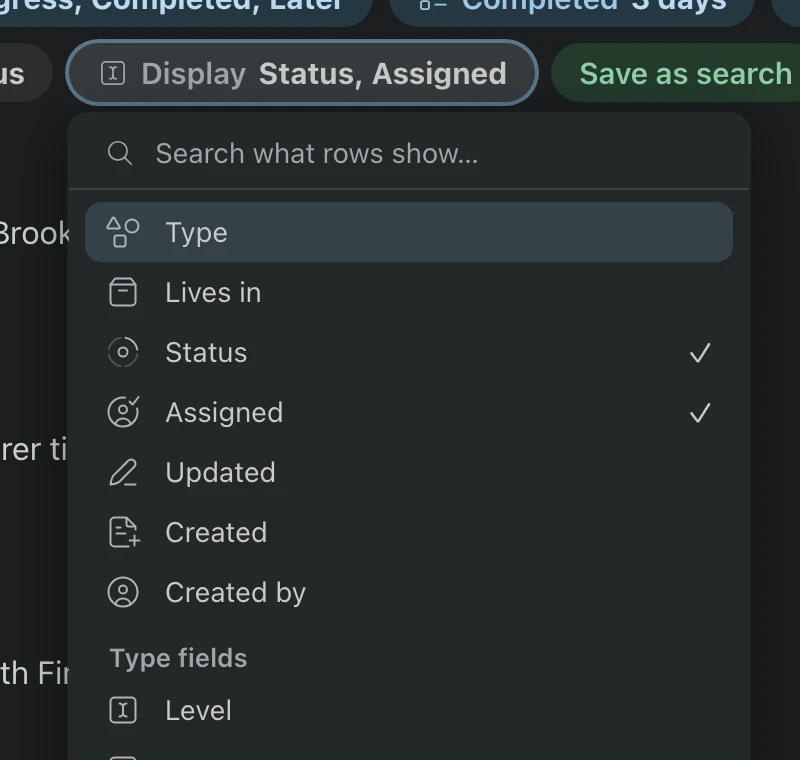
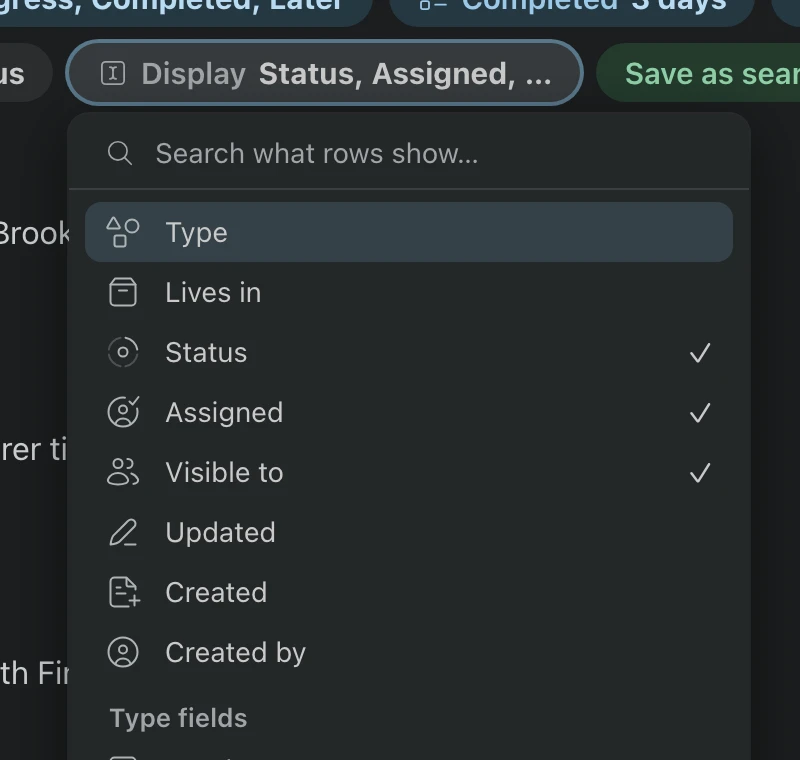
Display: Visible to is its own fact, no longer hidden with Assigned

diff --git a/scripts/renderer-behavior-check.js b/scripts/renderer-behavior-check.js
@@ -137,8 +137,6 @@ const withShims = (src) => {
   // a row's facts share their icon and click helpers with who can see it (renderer/tasks.js peopleEl), which the
   // subtext leads with; a harness with no member list sees nobody's bubbles
   if (/\b(clickable|iconEl|audienceIcon|peopleEl)\(/.test(src) && !/function clickable\(/.test(src)) src = sourceBetween('function clickable(', '// node: the row') + '\nglobalThis.loadMembers ??= () => {}; globalThis.memberName ??= (id) => id; globalThis.members ??= null; globalThis.sensitiveHidden ??= () => false;\n' + src;
-  // the Timeline hides who can see a row (renderer/tasks.js audienceShown): a harness that is not about it is not on it
-  if (/\baudienceShown\(/.test(src)) src = (/let zoom\b/.test(src) ? '' : 'globalThis.zoom ??= null;\n') + (/const TIMELINE_PAGE =/.test(src) ? '' : "globalThis.TIMELINE_PAGE ??= 'orbital:timeline';\n") + src;
   // a type's page (renderer/nodes.js): a harness that is not about one is never on one
   if (/\bfieldType\(/.test(src) && !/const fieldType =/.test(src)) src = 'globalThis.fieldType ??= () => (onTypePage() ? zoom.docId : null);\n' + src; // nor on a page narrowed to one type
   // the fields a mixed list's rows carry (renderer/views.js pageFieldDefs): a harness that is not about them lists none
@@ -161,7 +159,7 @@ const withShims = (src) => {
   if (/\b(displayOn|displayKeys|subtextOf)\b/.test(src) && !/const displayKeys =/.test(src) && !/function subtextOf\(/.test(src)) {
     src = functionSource('agoText') + '\n' + functionSource('subtextOf') + '\n' + src;
     // pinnedOn needs the grouping (views.js) and the date pins (state.js); no row here is in a Pinned section
-    src = "globalThis.displayKeys ??= () => ['status', 'assigned', 'updated']; globalThis.displayOn ??= (id) => globalThis.displayKeys().includes(id); globalThis.pinnedOn ??= () => ''; globalThis.me ??= () => (globalThis.members || []).find((m) => m.me);\n" + src;
+    src = "globalThis.displayKeys ??= () => ['status', 'assigned', 'visibility', 'updated']; globalThis.displayOn ??= (id) => globalThis.displayKeys().includes(id); globalThis.pinnedOn ??= () => ''; globalThis.me ??= () => (globalThis.members || []).find((m) => m.me);\n" + src;
   }
   // The watch-state cache lives in state.js, which most slices do not take. A slice that only clears it — a sharing
   // change can flip whether a node is watched — should not fail for want of the map itself.
@@ -4165,9 +4163,10 @@ function runRowAudienceCheck() {
     const pillKey = () => 'library', onTypePage = () => false, fieldType = () => null, relatedBy = new Map(), isFieldKey = () => false;
     ${sourceBetween('const DISPLAY_DEFAULT =', '\n// On a type')}
     ${sourceBetween('const displayKeys =', 'const displayOn =')}
-    (page) => { zoom = page ? { docId: page, nodeId: null } : null; return displayKeys().join(); };
+    (page, chosen) => { zoom = page ? { docId: page, nodeId: null } : null; if (chosen) displayPref.library = chosen; return displayKeys().join(); };
   `);
-  assert.equal(display(null), 'updated,creator', 'a list view shows what its Display chose');
+  assert.equal(display(null), 'updated,creator,visibility', 'a list view shows what its Display chose, and Visible to where it was chosen before Visible to was its own');
+  assert.equal(display(null, ['updated', 'novisibility']), 'updated,novisibility', 'Visible to switched off stays off');
   assert.equal(display('orbital:timeline'), 'status,assigned', 'the Timeline shows each task\'s box and assignee, not the last view\'s Updated');
   const api = vm.runInNewContext(`
     const items = new Map(), open = new Map(), pending = new Map();
@@ -4217,7 +4216,7 @@ function runRowAudienceCheck() {
     ${functionSource('nodeEl')}
     // which facts a row shows. withShims defaults this; here the harness drives it, so the sub-line can be checked
     // both with Lives in on and with it off. Assigned through globalThis because the shim's displayOn reads it there.
-    let displayNow = ['status', 'assigned', 'updated'];
+    let displayNow = ['status', 'assigned', 'visibility', 'updated'];
     globalThis.displayKeys = () => displayNow;
     ({
       row: (node, meta) => {
@@ -4236,7 +4235,7 @@ function runRowAudienceCheck() {
       },
       onScreen: () => { watching(observed.map((target) => ({ isIntersecting: true, target }))); return [...fetched]; },
       display: (keys) => { displayNow = keys; },
-      timeline: (on) => { globalThis.zoom = on ? { docId: TIMELINE_PAGE, nodeId: null } : null; },
+      timeline: (on) => { globalThis.zoom = on ? { docId: TIMELINE_PAGE, nodeId: null } : null; displayNow = on ? ['status', 'assigned'] : ['status', 'assigned', 'visibility', 'updated']; }, // the Timeline's own Display (displayKeys)
     });
   `, { structuredClone });
   const doc = { id: 'tana:text:doc1', kind: 'document', text: 'Charter', icon: 'doc', hasChildren: true, editable: true };
@@ -4263,6 +4262,13 @@ function runRowAudienceCheck() {
   const onTimeline = row(doc, { assignees: [], audience: 'people', people: ['tana:user-profile:me', 'tana:user-profile:sam'] });
   assert.deepEqual([onTimeline.people, onTimeline.icons, row(doc, spaceMeta).icons], [null, [], []], 'the Timeline shows nothing of who can see a row: no faces, no audience icon');
   api.timeline(false);
+  // Visible to is its own Display fact: Assigned off keeps it, and it off keeps the assignee
+  api.display(['status', 'visibility', 'updated']);
+  assert.deepEqual([row(doc, spaceMeta).icons, row(doc, { assignees: [], audience: 'people', people: ['tana:user-profile:me', 'tana:user-profile:sam'] }).people[0]], [['Visible to members of Studio LT'], 'Visible to selected people'], 'Assigned off leaves who can see a row');
+  api.display(['status', 'assigned', 'updated']);
+  const unseen = row(task, { assignees: ['tana:user-profile:sam'], audience: 'people', people: ['tana:user-profile:me', 'tana:user-profile:sam'] });
+  assert.deepEqual([unseen.people, unseen.icons], [null, []], 'Visible to off shows neither the faces nor the audience icon');
+  api.display(['status', 'assigned', 'visibility', 'updated']);
   const five = ['me', 'sam', 'ana', 'bo', 'cy'].map((k) => 'tana:user-profile:' + k);
   assert.deepEqual(row(doc, { assignees: [], audience: 'people', people: five.slice(0, 4), peopleCount: 9 }).people.slice(-2), ['+5', null], 'up to nine people the rest is a +n bubble');
   assert.deepEqual(row(doc, { assignees: [], audience: 'people', people: five.slice(0, 4), peopleCount: 12 }).people.slice(-2), ['?', 'and 8 others'], 'past nine it is words after four bubbles, and no bubble for the rest');
@@ -4274,25 +4280,25 @@ function runRowAudienceCheck() {
   // The space sub-line used to be unconditional; it is now the Display pill's "Lives in", which ships off. Both
   // directions are pinned: wiring it back to always-on would otherwise pass every test in this file.
   assert.equal(row(doc, spaceMeta).sub, null, 'with Lives in off, a space audience does not name the space under the title');
-  api.display(['status', 'assigned', 'updated', 'space']);
+  api.display(['status', 'assigned', 'visibility', 'updated', 'space']);
   assert.equal(row(doc, spaceMeta).sub, 'Studio LT', 'turning Lives in on names it again, the way the row always did');
   assert.equal(row(doc, spacePeople).after, '', 'but not a second time when who can see it already names the space');
-  api.display(['status', 'assigned', 'updated']);
+  api.display(['status', 'assigned', 'visibility', 'updated']);
   assert.equal(row(doc, spaceMeta).sub, null, 'and turning it off takes the line away again');
   // Created by: a name on the same sub-line, joined to the creation time rather than repeating the word.
   const made = { ...doc, createdBy: 'tana:user-profile:sam', createdAt: new Date(Date.now() - 2 * 864e5).toISOString() };
-  api.display(['status', 'assigned', 'updated', 'creator']);
+  api.display(['status', 'assigned', 'visibility', 'updated', 'creator']);
   assert.equal(row(made, spaceMeta).sub, 'Created by Sam', 'Created by names the maker even when Created is off');
-  api.display(['status', 'assigned', 'updated', 'created', 'creator']);
+  api.display(['status', 'assigned', 'visibility', 'updated', 'created', 'creator']);
   assert.equal(row(made, spaceMeta).sub, 'Created 2 days ago by Sam', 'and with Created on it is one phrase, not two');
   assert.equal(row({ ...made, createdBy: 'tana:user-profile:me' }, spaceMeta).sub, 'Created 2 days ago', 'and made by you it says no name: your own work needs no byline');
   assert.equal(row(doc, spaceMeta).sub, null, 'a row the graph gave no creator for says nothing at all');
-  api.display(['status', 'assigned', 'updated']);
+  api.display(['status', 'assigned', 'visibility', 'updated']);
   // Type is the same shape: the chips are a fact about the row, shown only while the pill asks for them.
   const tagged = { ...doc, tags: [{ label: 'Charter' }] };
-  api.display(['status', 'assigned', 'updated', 'type']);
+  api.display(['status', 'assigned', 'visibility', 'updated', 'type']);
   assert.equal(row(tagged, spaceMeta).chips, 1, 'with Type on, a row shows its type chip');
-  api.display(['status', 'assigned', 'updated']);
+  api.display(['status', 'assigned', 'visibility', 'updated']);
   assert.equal(row(tagged, spaceMeta).chips, 0, 'with Type off, it does not');
   assert.equal(row(doc, { assignees: [], audience: 'unknown' }).icons, null, 'a document with nothing shareable shows nothing at all');
   // A watched node says so on the row: the bell is the only place outside Cmd+K that tells you changes reach you.
@@ -4911,7 +4917,7 @@ function runSearchPillsCheck() {
   // did not count as unsaved, the Save pill would not appear and the choice would be lost on the way out.
   api.loaded();
   assert.equal(api.dirty(), false, 'freshly loaded, the display it was saved with is not an edit');
-  assert.deepEqual(plain(api.show('created')), ['status', 'assigned', 'updated', 'created'], 'a saved search takes a display of its own');
+  assert.deepEqual(plain(api.show('created')), ['status', 'assigned', 'visibility', 'updated', 'created'], 'a saved search takes a display of its own');
   assert.equal(api.dirty(), true, 'and changing what its rows show is something to save, like the query and the arrangement');
   api.leave();
   assert.equal(api.key(), 'tasks', 'and off the search page the pills belong to the view again');

diff --git a/renderer/tasks.js b/renderer/tasks.js
@@ -84,7 +84,7 @@ function patchMeta(docId) {
     // the same line a full render would build, so a row does not change shape when its metadata arrives late: the
     // facts go before the type chips, where nodeEl appends them, not after them
     const had = body.querySelector(':scope > .subtext'), sub = subtextEl(item.node, summary, had || undefined, tableRow(item.parent));
-    if (summary && displayOn('assigned')) body.insertBefore(taskMetaEl(summary, docId, item.node), body.querySelector(':scope > .chip') || had || null);
+    if (summary && (displayOn('assigned') || displayOn('visibility'))) body.insertBefore(taskMetaEl(summary, docId, item.node), body.querySelector(':scope > .chip') || had || null);
     if (sub && !had) body.append(sub);
     else if (!sub && had) had.remove();
     row.dataset.sig = rowSig(item.node); // the row now matches what a fresh render would build
@@ -153,9 +153,8 @@ function audienceIcon(summary, node) {
 }
 // Who can see a row, at the start of its subtext (#461): the audience's glyph, a bubble per person and how many.
 // main names them (sdk/node.js audienceMetadata): everyone is the organization's membership, the others the grants.
-function audienceUris(summary) { return (summary && summary.audience && displayOn('assigned') && audienceShown() && summary.people) || []; }
-// the Timeline says what happened and who did it, not who can see it: no audience icon or faces there
-function audienceShown() { return !(zoom && zoom.docId === TIMELINE_PAGE); }
+// Display's Visible to; the Timeline, which says what happened and who did it, never shows it (displayKeys)
+function audienceUris(summary) { return (summary && summary.audience && displayOn('visibility') && summary.people) || []; }
 // a guest's profile is not readable (the graph refuses the kind, a subscribe finds no document), so a guest is named as one
 function isGuest(uri) { return uri.startsWith('tana:guest-profile:'); }
 function peopleEl(summary, node) {
@@ -201,13 +200,13 @@ function taskMetaEl(summary, docId, node) {
   const writable = node && canEditNode(node) && isRealId(node.id);
   // .mtext: the words, which a table row leaves out (its Assigned column has the name; styles.css .table-view)
   const who = document.createElement('span'); who.className = 'mtext'; who.textContent = summary.assignees;
-  if (summary.assignees) el.append(who);
+  if (summary.assignees && displayOn('assigned')) el.append(who);
   if (summary.assignees && writable && isTask(node) && tana.setAssignees) { who.title = 'Edit assignees'; clickable(who, () => openAssigneePalette(node)); }
   if (summary.pending) el.append(iconEl('pending', null)); // the answer is still on its way: same slot, same size
   if (summary.assignees === 'Unassigned') { const icon = iconEl('unassigned', null); icon.title = 'Unassigned'; who.prepend(icon); }
   // a list row says who can see it in its subtext (peopleEl); a table row's subtext is its cells, so there the same
   // line (glyph, faces, the rest in words) sits here with the row's icons, and the bare glyph where it names nobody
-  if (!audienceShown()) { /* the Timeline: nothing about who can see it */ }
+  if (!displayOn('visibility')) { /* Visible to is off, or the Timeline: nothing about who can see it */ }
   else if (summary.audience && tableView()) el.append(peopleEl(summary, node) || audienceIcon(summary, node));
   else if (summary.audience && !audienceUris(summary).length) el.append(audienceIcon(summary, node));
   else if (summary.unknownAudience) { const t = document.createElement('span'); t.className = 'mtext'; t.textContent = ' · Visibility unknown'; el.append(t); }

diff --git a/renderer/views.js b/renderer/views.js
@@ -360,8 +360,11 @@ function sortRows(list) {
 // ---- display: which of a row's facts it shows ----
 // When it was made, when it last moved and where it lives read as one grey sub-line under the title, because they are
 // all answers to "what is this row"; the rest stay where they already are — the type chips, the assignee, the box.
-const DISPLAY = [['type', 'Type', 'type'], ['space', 'Lives in', 'space'], ['status', 'Status', 'status'], ['assigned', 'Assigned', 'assigned'], ['updated', 'Updated', 'updated'], ['created', 'Created', 'created'], ['creator', 'Created by', 'member']];
-const DISPLAY_DEFAULT = ['status', 'assigned', 'updated'];
+const DISPLAY = [['type', 'Type', 'type'], ['space', 'Lives in', 'space'], ['status', 'Status', 'status'], ['assigned', 'Assigned', 'assigned'], ['visibility', 'Visible to', 'users'], ['updated', 'Updated', 'updated'], ['created', 'Created', 'created'], ['creator', 'Created by', 'member']];
+const DISPLAY_DEFAULT = ['status', 'assigned', 'visibility', 'updated'];
+// Visible to came with Assigned until it was a fact of its own: a choice stored before then names neither and shows it,
+// and one made since names it or, switched off, 'novisibility' (setDisplay)
+const withVisibility = (keys) => (keys.includes('visibility') || keys.includes('novisibility') ? keys : [...keys, 'visibility']);
 // On a type's page every field it defines can be shown too, keyed by its attribute key; the ones with a closed set of
 // values (the ones that get a pill) and the last change are shown until you choose otherwise, as Tana's type page does.
 // A saved search or a view whose Type pill has picked one workspace type alone lists that type's instances too, so its
@@ -388,13 +391,14 @@ const displayKeys = () => {
   // it, so nothing could turn it off. Until the definitions are in, the page's own type's keys are kept as they are.
   const t = fieldType(), defs = t && (relatedBy.get(t) || {}).definitions;
   // A field kept by name stays on any list, as a field grouping does; a row without it just shows nothing for it.
-  if (Array.isArray(chosen)) return chosen.filter((k) => !isFieldKey(k) || (fieldName(k) !== null ? listPage() : defs ? defs.some((d) => fieldKey(d) === k) : !!t && k.startsWith(t + '?')));
+  if (Array.isArray(chosen)) return withVisibility(chosen.filter((k) => !isFieldKey(k) || (fieldName(k) !== null ? listPage() : defs ? defs.some((d) => fieldKey(d) === k) : !!t && k.startsWith(t + '?'))));
   return onTypePage() ? [...typeDefs().filter((d) => PILL_FIELDS.includes(d.type)).map(fieldKey), 'updated'] : DISPLAY_DEFAULT;
 };
 const displayOn = (id) => displayKeys().includes(id);
 function setDisplay(id) {
   const on = displayKeys(), next = on.includes(id) ? on.filter((x) => x !== id) : [...on, id];
-  displayPref[pillKey()] = displayList().map(([key]) => key).filter((key) => next.includes(key)); // stored in displayList's order: fields first, as the columns run
+  const keys = displayList().map(([key]) => key).filter((key) => next.includes(key)); // stored in displayList's order: fields first, as the columns run
+  displayPref[pillKey()] = next.includes('visibility') ? keys : [...keys, 'novisibility'];
   persistPref('display', displayPref);
   render(true); // every row is built differently now, and rowSig carries the choice so none is reused
 }

diff --git a/manual/views.html b/manual/views.html
@@ -172,9 +172,9 @@
       <div>
         <h3>Sort and Display</h3>
         <p><b>Sort</b> orders rows by <b>Default</b>, <b>Status</b>, <b>Updated</b>, <b>Created</b>, <b>Title</b>, or <b>Meeting time</b> when the list holds only meetings, and by any field of the page's types. A field sorts by its first value; rows without one go last.</p>
-        <p><b>Display</b> chooses the facts each row shows on its grey line: <b>Type</b>, <b>Lives in</b>, <b>Status</b>, <b>Assigned</b>, <b>Updated</b>, <b>Created</b>, <b>Created by</b>, and the page's fields. Tick as many as you like; the pill names the first two.</p>
+        <p><b>Display</b> chooses the facts each row shows on its grey line: <b>Type</b>, <b>Lives in</b>, <b>Status</b>, <b>Assigned</b>, <b>Visible to</b>, <b>Updated</b>, <b>Created</b>, <b>Created by</b>, and the page's fields. Tick as many as you like; the pill names the first two.</p>
       </div>
-      <figure class="shot"><img data-m="views-display" alt="The Display menu with Status and Assigned ticked"><figcaption>Every menu has a search line: type to narrow it.</figcaption></figure>
+      <figure class="shot"><img data-m="views-display" alt="The Display menu with Status, Assigned and Visible to ticked"><figcaption>Every menu has a search line: type to narrow it.</figcaption></figure>
     </div>
     <p>A saved search or a type page draws its rows twenty at a time; the next twenty come as "Show 20 more" at the end scrolls into view.</p>
   </section>

diff --git a/renderer/render.js b/renderer/render.js
@@ -906,7 +906,7 @@ function nodeEl(node, docId, parent) {
   if (metaText) { const m = document.createElement('span'); m.className = 'meta'; m.textContent = metaText; body.append(m); }
   // every row describes who can see it, not only task rows; the fetch waits until the row is on screen
   const taskInfo = taskSummary(display, true) || documentSummary(display, true);
-  if (displayOn('assigned')) {
+  if (displayOn('assigned') || displayOn('visibility')) {
     if (taskInfo) body.append(taskMetaEl(taskInfo, display.id, display));
     else if (observeMeta(el, display)) body.append(taskMetaEl({ assignees: '', pending: true }, display.id, display)); // hold the slot: the real icon lands in the same place, so the row never shifts (the meeting link already in it)
   } else if (!taskInfo) observeMeta(el, display); // "Lives in" reads the same answer, so the fetch still goes out

diff --git a/renderer/nodes.js b/renderer/nodes.js
@@ -517,7 +517,7 @@ const searchDirty = () => {
   const saved = searchFilters.get(zoom.docId);
   if (!saved) return false;
   return !sameFilter(filters.get(zoom.docId), saved.filter) || sortBy() !== (saved.sort || 'default') || groupBy() !== (saved.group || 'none')
-    || displayKeys().join(',') !== (Array.isArray(saved.display) ? saved.display : DISPLAY_DEFAULT).join(',');
+    || displayKeys().join(',') !== withVisibility(Array.isArray(saved.display) ? saved.display : DISPLAY_DEFAULT).join(',');
 };
 // The rows a saved search shows follow the pills above them, or editing a filter would read as doing nothing. While
 // the staged filter matches the document, the document's own rows are the right answer and keep the parts of a

diff --git a/docs/OUTLINER.md b/docs/OUTLINER.md
@@ -222,7 +222,7 @@ one per page or feature (`onInbox`, `onRelatedChanged`, `onTimelinePart`, `onSet
   sends those four and `peopleCount`, and reads the owners on demand, so they are let go like any read). Each bubble is
   an image named after its person; a guest, whose profile Tana does not let us read, is "Guest". The glyph then leaves
   the facts after the title. A table row, whose subtext is its cells, draws the same line (glyph, bubbles, the rest in
-  words) in its icons at the end, whose column widens to 190px when any row has one, and the bare glyph for a row that names nobody. It shows with the Assigned fact, and never on the Timeline, which shows neither the glyph nor the faces (`audienceShown`).
+  words) in its icons at the end, whose column widens to 190px when any row has one, and the bare glyph for a row that names nobody. It is Display's Visible to fact, on unless switched off (a Display choice stored before it was its own fact shows it; off is stored as `novisibility`, views.js `withVisibility`), and never on the Timeline, which shows neither the glyph nor the faces (`displayKeys`).
   Everyone, only you and a space are the exception: the glyph and **Everyone**, **Private** or the space's name
   ("Space members" when Tana gives no title), no bubbles, since a bubble per member or your own face tells you nothing
   (`AUDIENCES` `word`, `audienceInfo`); the page's Visible to field says the same, and Lives in leaves the space out
